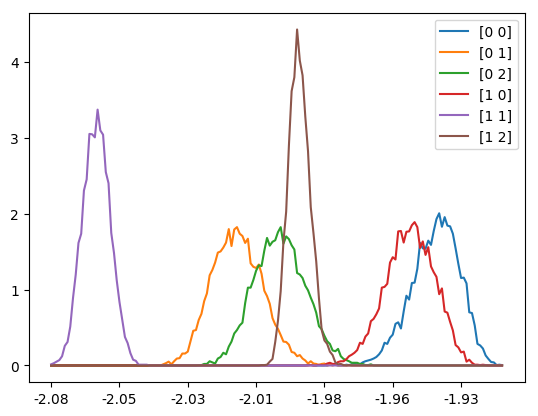
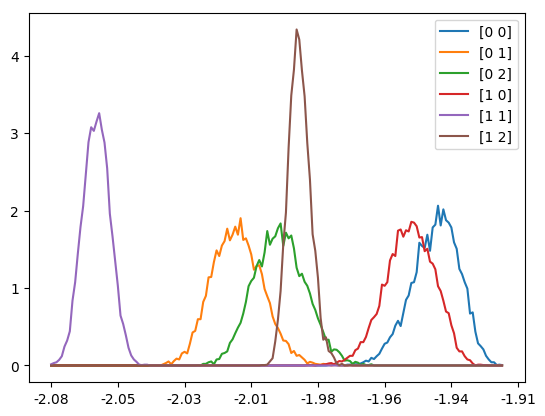
debugging scoresByGroup, was loosing some data points

diff --git a/src/util/util.py b/src/util/util.py
@@ -5,16 +5,17 @@ Created on Sep 27, 2018
 '''
 import pandas as pd
 
+
 def scoresByGroups(data, groups, qual_attr):
     """
-    takes a dataset with one item each row and each item has qualifying as well as sensitive
+    takes a dataset with one item per row and each item has qualifying as well as sensitive
     attributes.
     takes all values from column qual_attr and resorts data such that result contains all scores from
     qual_attr in one column per group of sensitive attributes.
 
-    @param groups:                 all possible groups in data as list of tuples. One tuple contains manifestations
+    @param groups:                 all possible groups in data as dataframe. One row contains manifestations
                                    of protected attributes, hence represents a group
-                                   example: [(white, male), (white, female), (hispanic, male), (hispanic, female)]
+                                   example: [[white, male], [white, female], [hispanic, male], [hispanic, female]]
     @param qual_attr:              name of column that contains the quality attribute (only one possible)
 
     @return: dataframe with group labels as column names and scores per group as column values
@@ -27,7 +28,8 @@ def scoresByGroups(data, groups, qual_attr):
         scoresPerGroup = pd.DataFrame(data)
         for prot_attr in protectedAttributes:
             scoresPerGroup = scoresPerGroup.loc[(scoresPerGroup[prot_attr] == group.get(prot_attr))]
-        scoresPerGroup = scoresPerGroup.reset_index(drop=True)
-        result = result.reset_index(drop=True)
-        result[colName] = scoresPerGroup[qual_attr]
+        resultCol = pd.DataFrame(data=scoresPerGroup[qual_attr].values, columns=[colName])
+        # needs concat to avoid data loss in case new resultCol is longer than already existing result
+        # dataframe
+        result = pd.concat([result, resultCol], axis=1)
     return result

diff --git a/src/main.py b/src/main.py
@@ -47,7 +47,6 @@ def rerank_with_cfa(thetas, pathToData, pathToGroups, qual_attr):
     groups = pd.read_csv(pathToGroups, sep=',')
     regForOT = 1e-3
 
-    # TODO: irgendwo in scoresByGroups gehen Datenpunkte verloren, scoresPerGroup ist kleiner als data
     scoresPerGroup = scoresByGroups(data, groups, qual_attr)
     cfa.continuousFairnessAlgorithm(scoresPerGroup, thetas, regForOT, 50, path='../data/synthetic/', plot=True)
 
